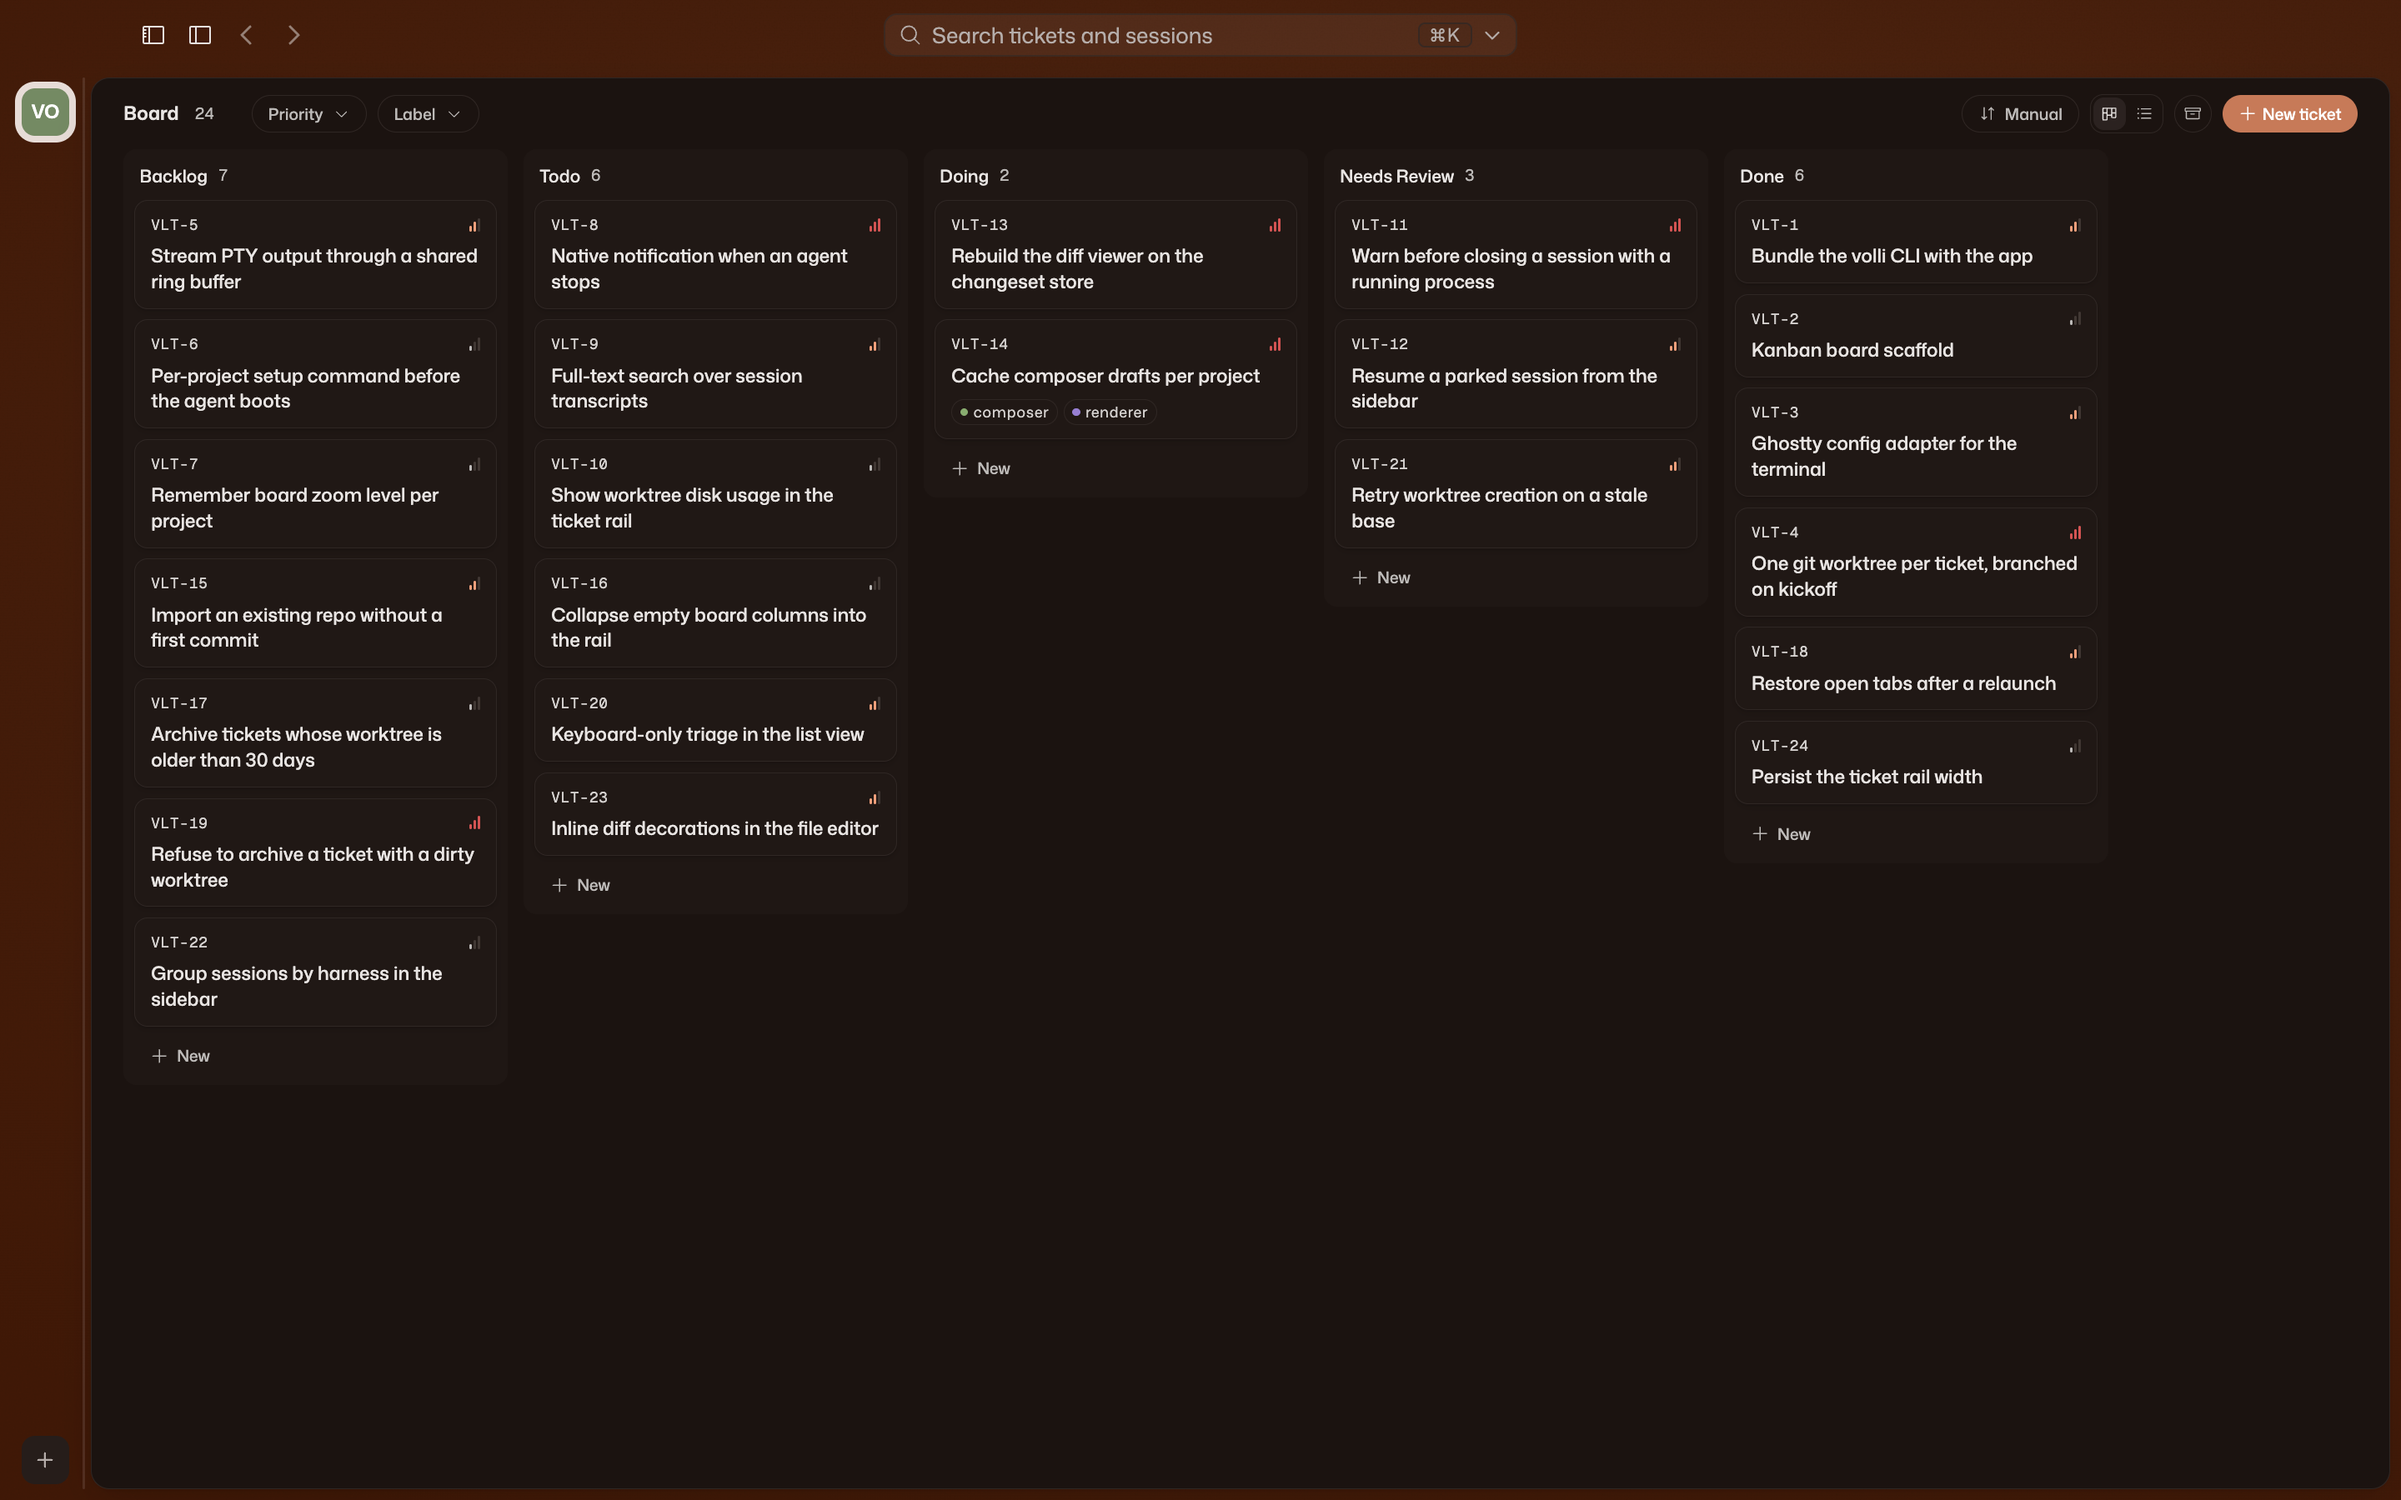
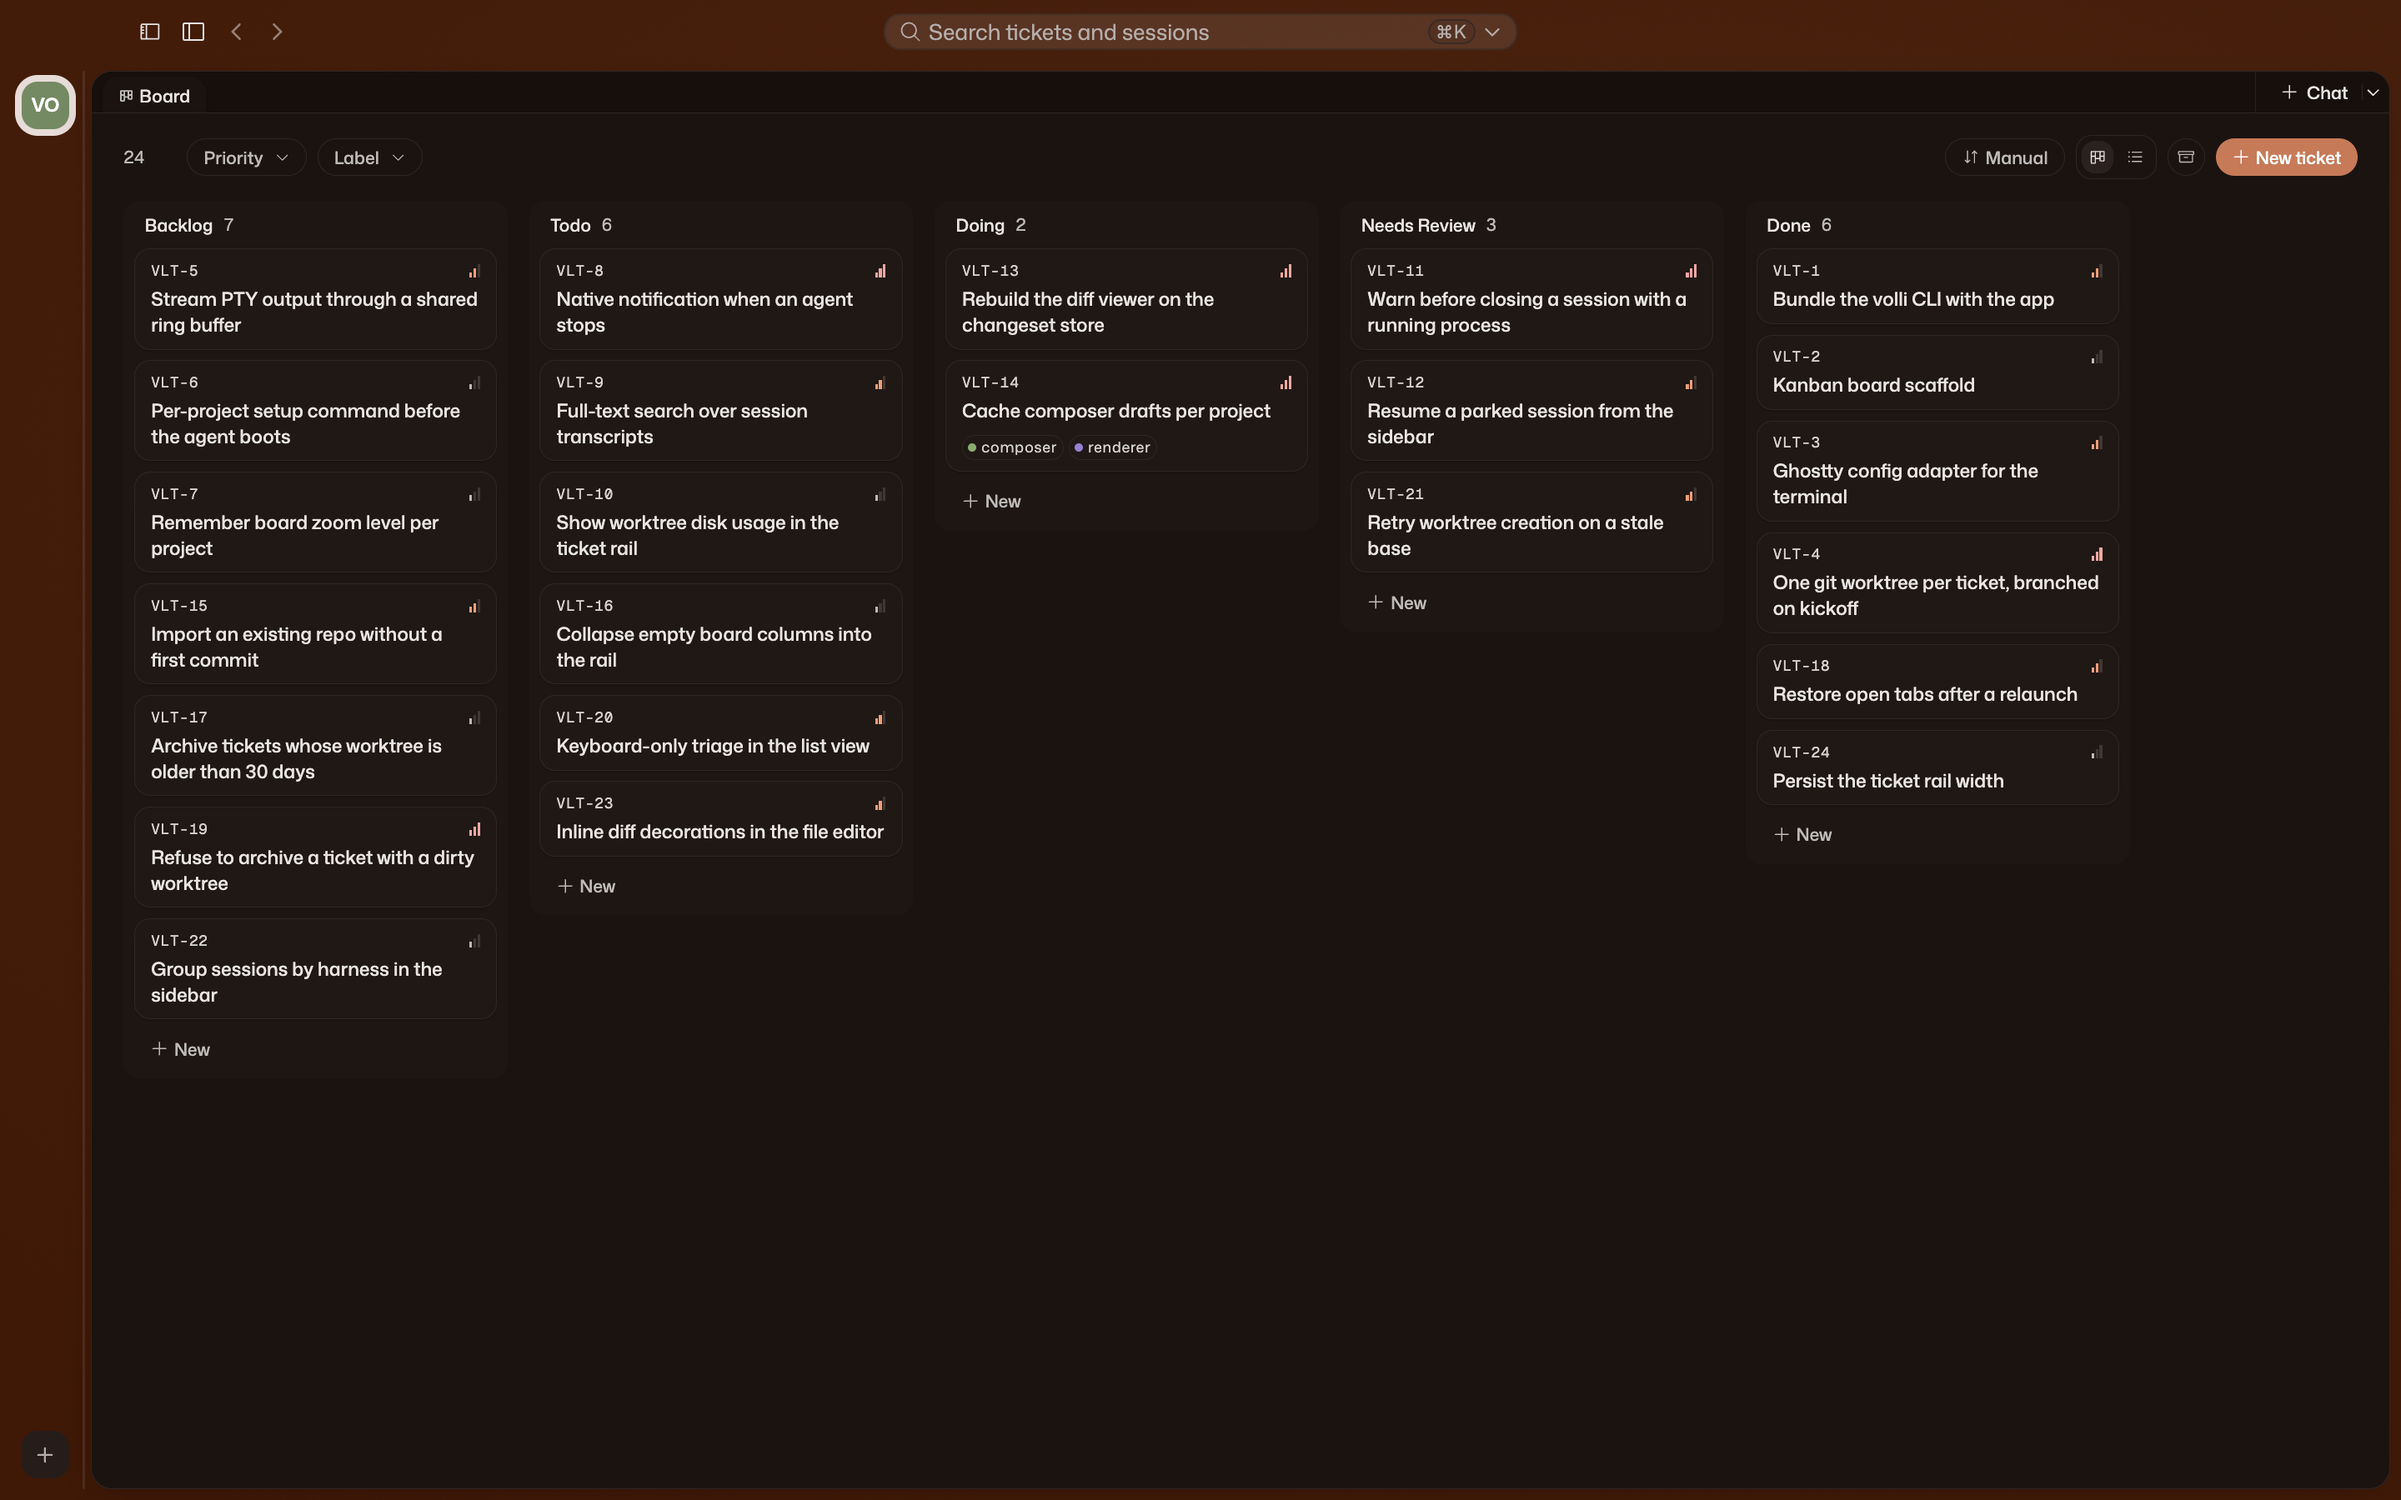
docs(VC-64): refresh launch screenshots and hero copy

diff --git a/README.md b/README.md
@@ -18,6 +18,14 @@
   <a href="https://github.com/hussainph/volli-code/issues">Feedback</a>
 </p>
 
+<p align="center">
+  <img
+    src="apps/docs/src/assets/screenshots/board.png"
+    alt="Volli Code's Home Board tab with five ticket columns and a Chat control."
+    width="1200"
+  />
+</p>
+
 ## Install
 
 > [!IMPORTANT]
